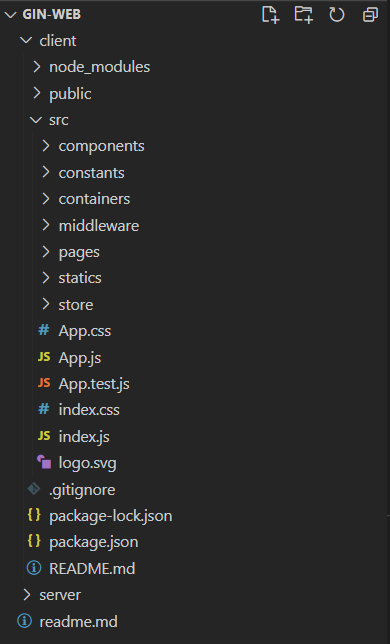
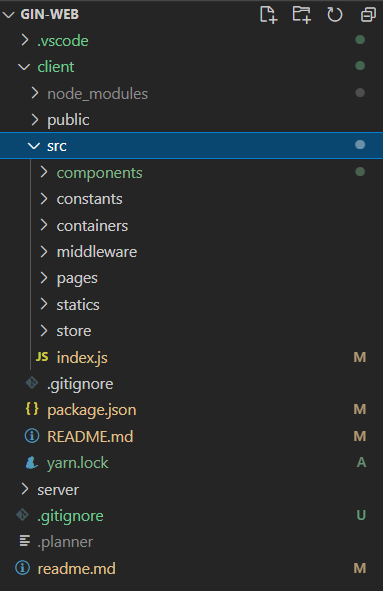
concept blog

diff --git a/readme.md b/readme.md
@@ -18,10 +18,18 @@ Go and React Web App
 <details>
     <summary> 👉 Click Me  ( Expand Detail Tag )</summary>
 
-### Gin-Web (tag : v0.0.7.1)
-- Refactoring : Folder Structure
+### Gin-Web (tag : v0.0.8)
+- 블로그로 컨셉 변경
+    - 뼈대 생성
+    - styled component 기반에 약간의 material-ui 를 곁들인...
+
+### Gin-Web (tag : v0.0.7.2)
+- Using yarn instead of npm
 
     ![ex_screenshot](./server/docs/react_structure.PNG)
+
+### Gin-Web (tag : v0.0.7.1)
+- Refactoring : Folder Structure
 
 ### Gin-Web (tag : v0.0.7)
 - kakao api Login 구현
